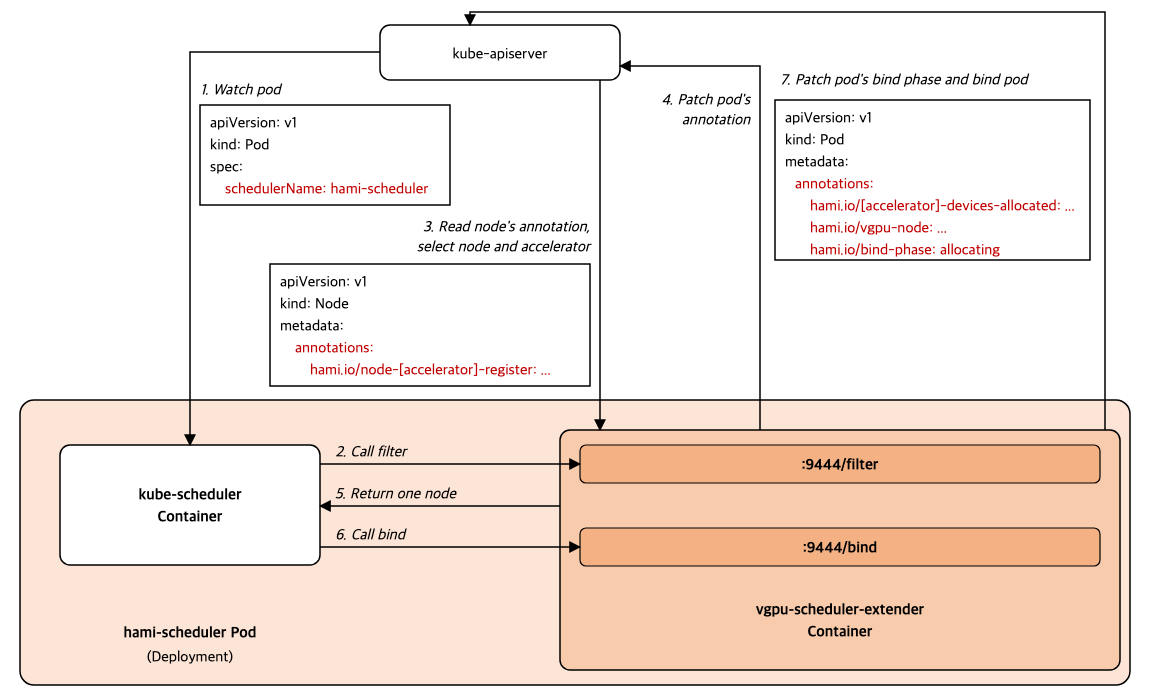
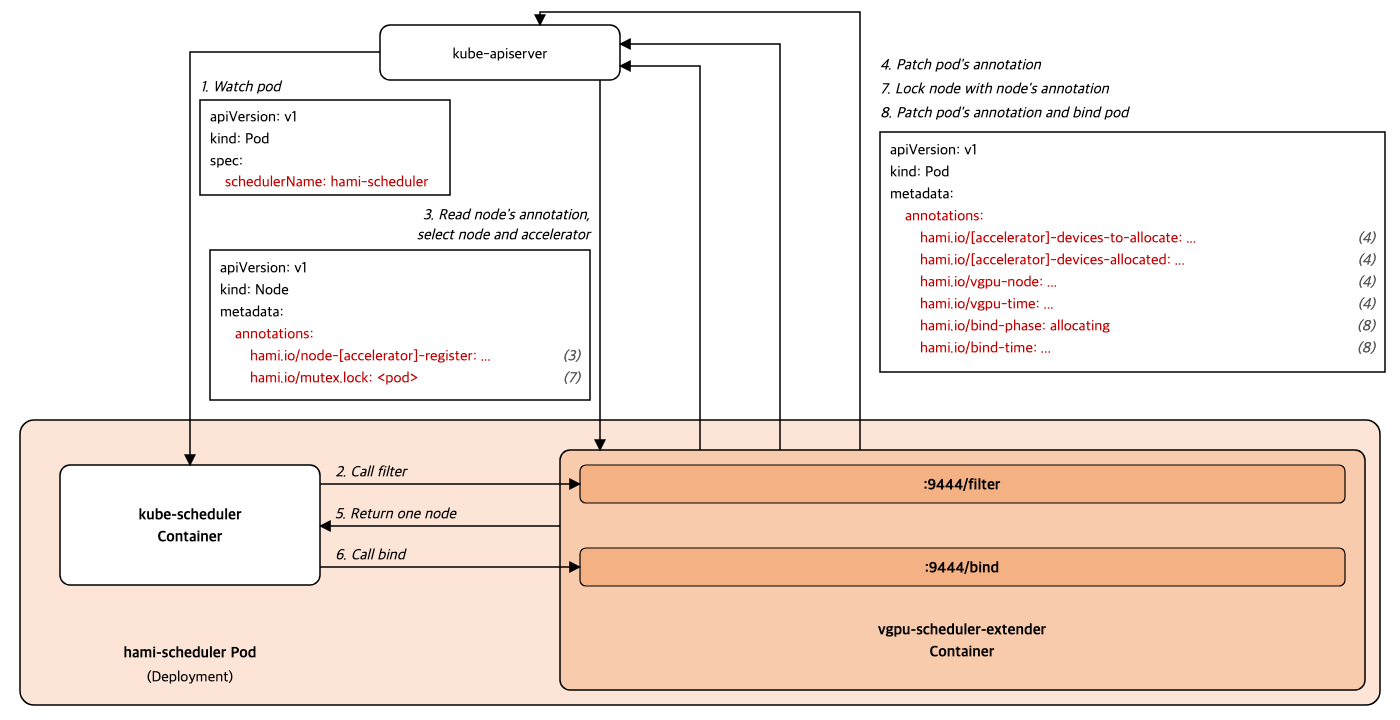
Redraw HAMi scheduling and allocation figures with all annotations

diff --git a/content/docs/theory-analysis/kubernetes-hami/index.md b/content/docs/theory-analysis/kubernetes-hami/index.md
@@ -185,10 +185,11 @@ Device Plugin 방식에서는 Node 선택은 kube-scheduler가 수행하고 Acce
 1. HAMi Scheduler 내부의 kube-scheduler는 kube-apiserver를 Watch하여 `schedulerName`이 `hami-scheduler`인 Pod를 Scheduling 대상으로 가져온다.
 2. kube-scheduler는 Filter 단계에서 Scheduler Extender의 `/filter` Endpoint를 호출한다.
 3. Scheduler Extender는 Node Annotation (`hami.io/node-[accelerator]-register`) 에 기록된 Accelerator 정보와 기존 할당 내역을 기반으로 요청 조건을 만족하는 Accelerator가 존재하는 Node를 선별하고, Scheduling 정책에 따라 점수를 계산하여 가장 높은 점수의 Node와 Accelerator를 선택한다.
-4. Scheduler Extender는 선택된 Accelerator의 UUID와 Memory 크기, Core 사용률 제한 값을 Pod의 `hami.io/[accelerator]-devices-allocated` Annotation에, 선택된 Node 이름을 `hami.io/vgpu-node` Annotation에 기록한다.
+4. Scheduler Extender는 선택 결과를 Pod Annotation에 기록한다. 선택된 Accelerator의 UUID와 Memory 크기, Core 사용률 제한 값은 `hami.io/[accelerator]-devices-to-allocate`와 `hami.io/[accelerator]-devices-allocated` Annotation에, 선택된 Node 이름과 선택 시각은 `hami.io/vgpu-node`와 `hami.io/vgpu-time` Annotation에 기록된다.
 5. Scheduler Extender는 선택된 Node 하나만 kube-scheduler에 반환한다.
 6. kube-scheduler는 Bind 단계에서 Scheduler Extender의 `/bind` Endpoint를 호출한다.
-7. Scheduler Extender는 Pod의 `hami.io/bind-phase` Annotation을 `allocating`으로 기록하고, Pod를 선택된 Node에 Bind한다.
+7. Scheduler Extender는 Node Annotation (`hami.io/mutex.lock`) 에 해당 Pod를 기록하여 Node를 Lock한다. Lock은 HAMi Device Plugin이 해당 Pod의 Accelerator 할당을 완료할 때까지 유지되어, 같은 Node에서 다른 Pod의 할당이 동시에 진행되지 않도록 한다.
+8. Scheduler Extender는 Pod의 `hami.io/bind-phase` Annotation을 `allocating`으로, `hami.io/bind-time` Annotation을 Bind 시각으로 기록하고 Pod를 선택된 Node에 Bind한다.
 
 ```shell {caption="[Shell 3] HAMi Scheduler KubeSchedulerConfiguration 확인"}
 $ kubectl -n kube-system get configmap hami-scheduler -o jsonpath='{.data.config\.yaml}'
@@ -257,11 +258,12 @@ metadata:
 
 Scheduler Extender가 기록하는 Annotation:
 
-* **`hami.io/[accelerator]-devices-to-allocate`** : 할당 Phase 중간에 Scheduler가 선택한 Accelerator를 임시로 기록하는 Field. 할당이 완료되면 비워진다.
+* **`hami.io/[accelerator]-devices-to-allocate`** : 아직 Container에 할당되지 않은 Accelerator 목록. HAMi Device Plugin이 Container에 할당할 때마다 할당을 마친 항목을 지우며, 모두 지워지면 할당이 완료된 것으로 판단한다.
 * **`hami.io/[accelerator]-devices-allocated`** : Scheduler가 최종 선택한 Accelerator 할당 결과 (UUID, Type, Memory 크기, Core 사용률 등). Accelerator 1개당 1개 Record가 생성된다.
 * **`hami.io/vgpu-node`** : Accelerator가 할당된 Node 이름.
-* **`hami.io/bind-phase`** : Scheduling의 Bind 단계 상태.
-* **`hami.io/bind-time`**, **`hami.io/vgpu-time`** : Bind 수행 시각.
+* **`hami.io/vgpu-time`** : Scheduler Extender가 Node와 Accelerator를 선택한 시각.
+* **`hami.io/bind-phase`** : 할당 진행 상태 (`allocating`, `success`, `failed`).
+* **`hami.io/bind-time`** : Bind 수행 시각.
 
 사용자가 지정하는 Annotation:
 
@@ -270,14 +272,17 @@ Scheduler Extender가 기록하는 Annotation:
 
 ### 1.4. Accelerator 할당
 
-{{< figure caption="[Figure 4] Accelerator Allocation Process" src="images/hami-device-allocation.png" width="650px" >}}
+{{< figure caption="[Figure 4] Accelerator Allocation Process" src="images/hami-device-allocation.png" width="900px" >}}
 
 Accelerator 할당도 HAMi Device Plugin이 수행하며, HAMi Scheduler가 선택한 Accelerator를 실제로 Container에 할당한다. [Figure 4]는 Accelerator 할당 과정을 나타내고 있다.
 
 1. Pod가 Bind된 Node의 kubelet은 HAMi Device Plugin에게 `Allocate()` gRPC 요청을 전송한다.
-2. HAMi Device Plugin은 kube-apiserver를 통해서 해당 Pod의 `hami.io/[accelerator]-devices-to-allocate` 계열 Annotation을 조회하여, HAMi Scheduler가 선택한 Accelerator의 UUID와 Memory 크기, Core 사용률 제한 값을 파악한다. 일반적인 Device Plugin은 `Allocate()` 요청에 포함된 Device ID만으로 동작하지만, HAMi Device Plugin은 HAMi Scheduler의 Accelerator 선택 결과를 그대로 따라야 하기 때문에 Pod의 Annotation을 참조한다.
-3. HAMi Device Plugin은 `Allocate()` 응답으로 할당할 Accelerator 정보와 격리 설정을 반환한다. 반환 내용은 격리 계층에 따라서 다른데, Library 수준은 격리 Library Mount와 제한값 환경 변수가, Driver/Hardware 수준은 가상화된 Accelerator Device 참조가 반환된다.
-4. kubelet은 반환받은 설정을 반영하여 Container를 생성하며, 이후 Container가 Accelerator를 사용하면 격리 계층이 Memory 크기 제한과 Core 사용률 제한을 강제한다.
+2. HAMi Device Plugin은 Node Annotation (`hami.io/mutex.lock`) 에 기록된 Pod를 할당 대상 Pod로 판단한다. `Allocate()` 요청에는 Device ID만 포함되고 Pod 정보는 포함되지 않기 때문이다.
+3. HAMi Device Plugin은 해당 Pod의 `hami.io/[accelerator]-devices-to-allocate` Annotation을 조회하여, HAMi Scheduler가 선택한 Accelerator의 UUID와 Memory 크기, Core 사용률 제한 값을 파악한다. 일반적인 Device Plugin은 `Allocate()` 요청에 포함된 Device ID만으로 동작하지만, HAMi Device Plugin은 HAMi Scheduler의 Accelerator 선택 결과를 그대로 따라야 하기 때문에 Pod의 Annotation을 참조한다.
+4. HAMi Device Plugin은 할당을 마친 Container의 항목을 `hami.io/[accelerator]-devices-to-allocate` Annotation에서 지운다.
+5. 모든 항목이 지워지면 HAMi Device Plugin은 Pod의 `hami.io/bind-phase` Annotation을 `success`로 변경하고, Node Annotation (`hami.io/mutex.lock`) 의 Lock을 해제한다.
+6. HAMi Device Plugin은 `Allocate()` 응답으로 할당할 Accelerator 정보와 격리 설정을 반환한다. 반환 내용은 격리 계층에 따라서 다른데, Library 수준은 격리 Library Mount와 제한값 환경 변수가, Driver/Hardware 수준은 가상화된 Accelerator Device 참조가 반환된다.
+7. kubelet은 반환받은 설정을 반영하여 Container를 생성하며, 이후 Container가 Accelerator를 사용하면 격리 계층이 Memory 크기 제한과 Core 사용률 제한을 강제한다.
 
 Library 수준 격리에서 Container에 전달되는 Library는 격리 Library와 Accelerator Driver Library로 나뉘며, 전달 경로가 서로 다르다. 격리 Library는 HAMi Device Plugin Image에 포함되어 있으며, HAMi Device Plugin Container가 시작될 때 Node의 Host 디렉터리 (NVIDIA GPU는 `/usr/local/vgpu`) 로 복사되어 설치된다. 이후 HAMi Device Plugin은 `Allocate()` 응답의 Mount 항목에 Host 경로와 Container 경로를 지정하여 격리 Library를 전달하며, kubelet이 이 항목을 Container Runtime에 넘겨 Container 생성 시 Bind Mount가 이루어진다. 즉 HAMi Device Plugin은 Mount를 직접 수행하지 않고 Mount 대상만 지정한다.
 

diff --git a/content/docs/theory-analysis/kubernetes-hami/CLAUDE.md b/content/docs/theory-analysis/kubernetes-hami/CLAUDE.md
@@ -29,6 +29,13 @@ HAMi 자체(이기종 AI 가속기 가상화 Middleware)에 포커스를 두고 
   이어서 사용자 요청으로 `#### 1.3.1. NUMA Refit`으로 분리하고 배경 문단 추가: Guaranteed Pod의 CPU는 Bind 이후 kubelet CPU Manager가
   결정하고 kube-apiserver에 공개되지 않아 hami-scheduler가 Scheduling 시점에 CPU의 NUMA를 알 수 없음(근거: Issue #2080 실측 — CPU NUMA 0,
   Scheduler 선택 GPU NUMA 14). hami-scheduler가 재선택하는 이유(할당 내역 관리, 과할당 방지)는 둘째 문단으로 이동.
+- **2026-11-15 Figure 3, 4 재작도 + 1.3/1.4 단계 재작성** (사용자 요청: 사용되는 Annotation 모두 표현). Claude가 SVG → headless Chrome PNG로 작도
+  (Figure 3 1400×720, Figure 4 1300×720, width 900px, 소스 미보관). YAML 줄 끝 `(N)`으로 단계 번호 표시. 근거(v2.11.0):
+  Filter(scheduler.go) — `vgpu-node`(AssignedNode), `vgpu-time`(AssignedTime), PatchAnnotations로 `devices-to-allocate`(InRequestDevices)와
+  `devices-allocated`(SupportDevices) 동일 값 기록. Bind — acquireNodeLocks(Node `hami.io/mutex.lock`, 값에 Pod ns/name) → `bind-phase: allocating`,
+  `bind-time` → Bind. Allocate(nvinternal/plugin) — GetPendingPod가 Node `mutex.lock`에서 Pod 조회 → `devices-to-allocate` decode →
+  patchErasedAnnotation(할당 마친 항목 삭제) → podAllocationTrySuccess(모두 지워지면 `bind-phase: success` + ReleaseNodeLock) → 응답 반환.
+  1.3은 8단계, 1.4는 7단계. [File 2] bullet 정정: `vgpu-time`은 Bind 시각이 아니라 선택(Filter) 시각, `bind-phase` 값 3종, `devices-to-allocate` 의미.
 - **2026-11-15 1.5 재구성** (사용자 요청): 제목 "Mutating Webhook 검증 동작" → "Pod 검증". 도입 문단에 [Figure 1]의 Mutating Webhook
   경로가 `UPDATE`에도 이용된다는 점 명시. 거부 항목 3개(할당 Annotation 보호, nodeName 지정, privileged) 개조식 + 보호 이유 문단 +
   "검증이 적용되지 않는 경우" 문단(ignore Label, `failurePolicy: Ignore`)으로 분리. 1.2 [Shell 2] 설명에서는 `UPDATE` 언급 제거,
